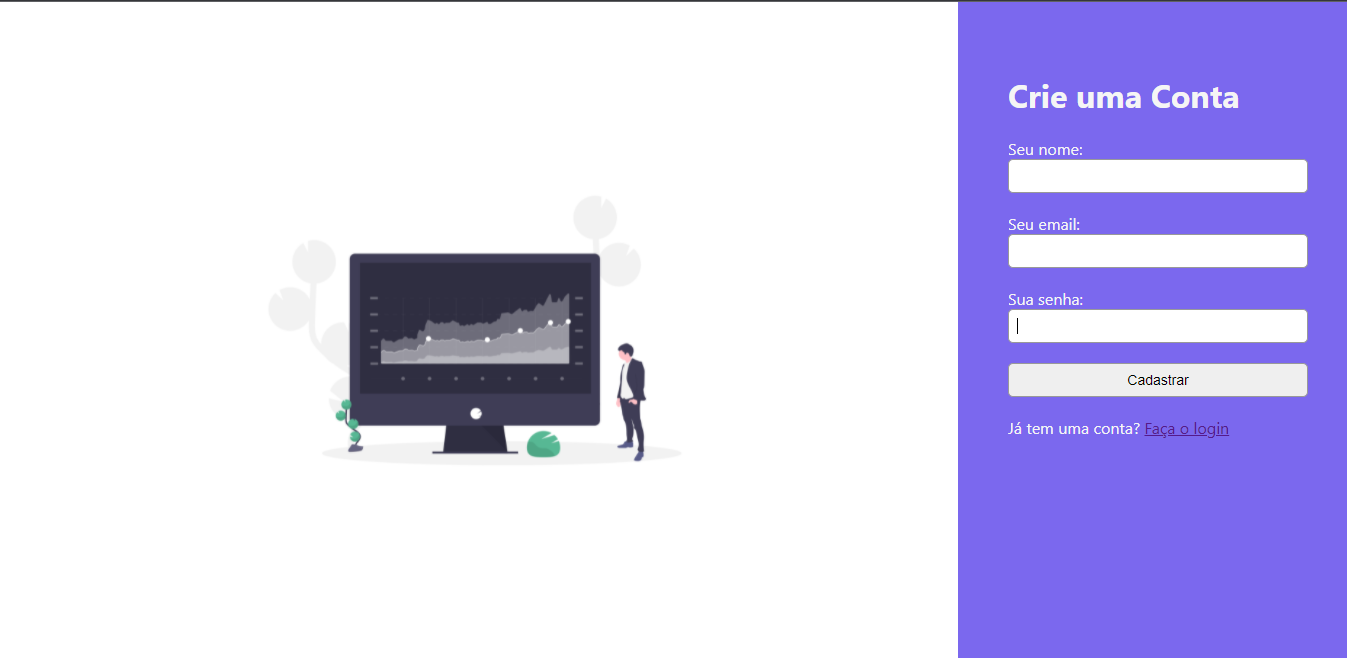
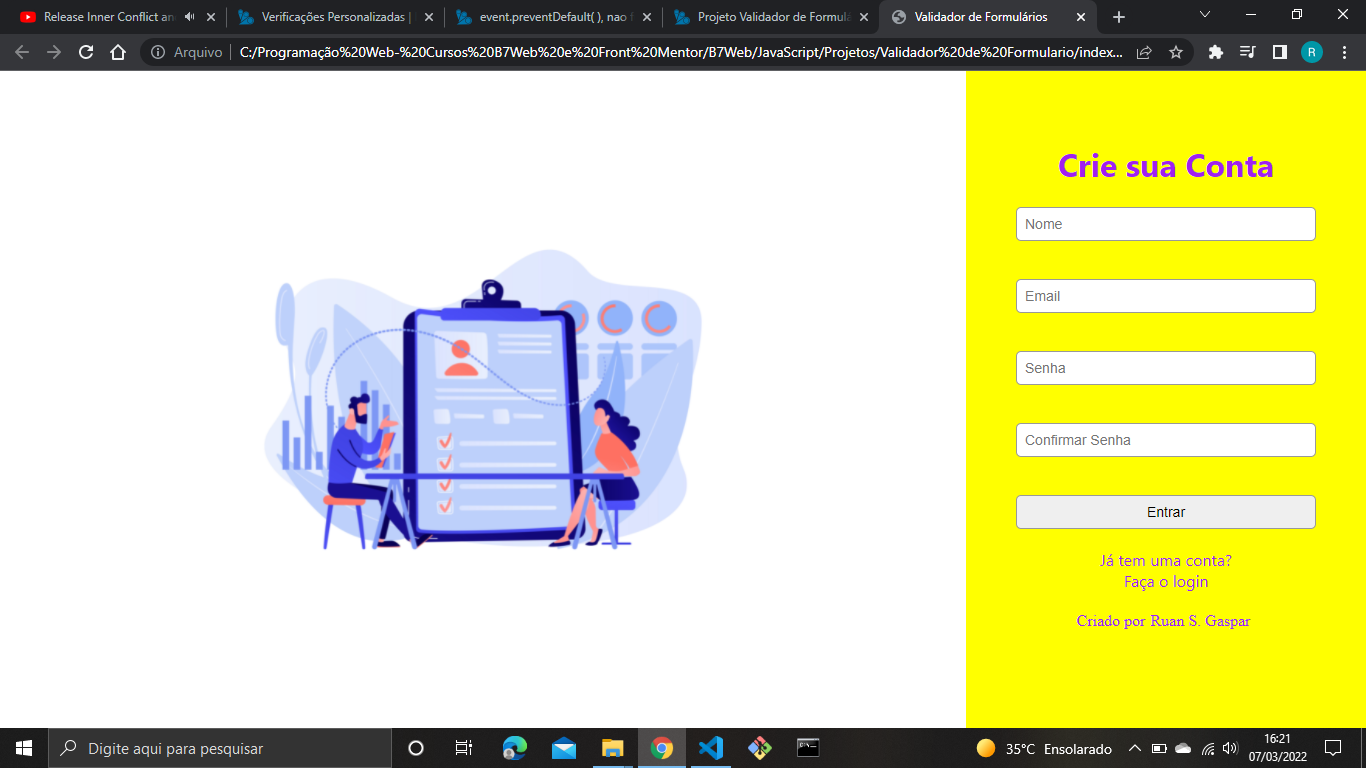
Modificação no README e no index.html

diff --git a/Validador de Formulario/index.html b/Validador de Formulario/index.html
@@ -10,31 +10,40 @@
 <body>
   <div class="screen">
       <div class="leftside">
-        <img src="assets/images/financial_data.png" alt="financial_data">
+        <img src="assets/images/form_validator.jpg" alt="form_validator">
       </div>
       <div class="rightside">
-          <h1 class="text">Login</h1>
-
-            <form method="POST" action="cadastro.php" class="rsgvalidator" >
+          <h1 class="text">Crie sua Conta</h1>
+            <form method="POST" action="cadastro.php" class="b7validator" >
                 <label>
                   <input type="text" name="name" data-rules="required|min=2" placeholder="Nome" autofocus/>
                 </label>
+                <br>
                 <label>
                   <input type="text" name="email" data-rules="required|email" placeholder="Email" autofocus/>
                 </label>
+                <br>
                 <label>
                   <input type="password" name="password" data-rules="required|min=4" placeholder="Senha" autofocus/>
                 </label>
+                <br>
+                <label>
+                  <input type="password" name="password" data-rules="required|min=4" placeholder="Confirmar Senha" autofocus/>
+                </label>
+                <br>
                 <label>
                   <input type="submit" value="Entrar"/>
                 </label>
             </form>
             <div class="text">
-              <p>Não tem uma conta? <a href="">Faça o cadastro</a></p>
+              <p>Já tem uma conta? <a href="">Faça o login</a></p>
+            </div>
+            <div class="footer">
+              Criado por<a class="linkedin" target="blank" href="https://www.linkedin.com/in/ruan-silva-gaspar-a13a89226/">Ruan S. Gaspar </a>
             </div>
       </div>
   </div>
 
-  <script src="script.js"></script>
+  <script src="assets/js/script.js"></script>
 </body>
 </html>

diff --git a/Validador de Formulario/assets/js/script.js b/Validador de Formulario/assets/js/script.js
@@ -1,18 +1,18 @@
-let RSGvalidator = {
+let B7validator = {
   handleSubmit:(event) => {
     event.preventDefault();
     let send = true;
 
     let inputs = form.querySelectorAll('input');
 
-    RSGvalidator.clearErrors();
+    B7validator.clearErrors();
 
     for(let i=0;i<inputs.length;i++) {
       let input = inputs[i];
-      let check = RSGvalidator.checkInput(input);
+      let check = B7validator.checkInput(input);
       if(check !== true) {
         send = false;
-        RSGvalidator.showError(input, check);
+        B7validator.showError(input, check);
       }
     }
 
@@ -35,13 +35,14 @@ let RSGvalidator = {
             break;
             case 'min':
               if(input.value.length < rDetails[1]){
-                  return 'Campo tem que ter pelo menos ' + rDetails[1] + ' caracteres';
+                  return 'Campo tem que ter pelo menos '+rDetails[1]+ ' caracteres';
               }
             break;
             // expressões regulares
             case 'email':
               if(input.value != '') {
                   let regex = /^(([^<>()\[\]\\.,;:\s@"]+(\.[^<>()\[\]\\.,;:\s@"]+)*)|(".+"))@((\[[0-9]{1,3}\.[0-9]{1,3}\.[0-9]{1,3}\.[0-9]{1,3}])|(([a-zA-Z\-0-9]+\.)+[a-zA-Z]{2,}))$/;
+
                   if(!regex.test(input.value.toLowerCase())) {
                     return 'E-mail inválido!';
                   }
@@ -78,5 +79,5 @@ let RSGvalidator = {
   
 };
 
-let form = document.querySelector('.rsgvalidator');
-form.addEventListener('submit', RSGvalidator.handleSubmit);
+let form = document.querySelector('.b7validator');
+form.addEventListener('submit', B7validator.handleSubmit);

diff --git a/Validador de Formulario/assets/css/style.css b/Validador de Formulario/assets/css/style.css
@@ -7,13 +7,13 @@ body {
 }
 
 .text {
-  color: whitesmoke;
+  color: #A020F0;
   font-family: -apple-system, BlinkMacSystemFont, 'Segoe UI', Roboto, Oxygen, Ubuntu, Cantarell, 'Open Sans', 'Helvetica Neue', sans-serif;
 }
 
 .text a {
   text-decoration: none;
-  color: blue;
+  color: #A020F0;
 }
 
 .screen {
@@ -35,15 +35,17 @@ body {
 
 .rightside {
   width: 400px;
-  background-color: #7B68EE;
+  background-color:#FFFF00;
   padding: 50px;
 }
 
 .rightside label {
   display: block;
   margin-bottom: 20px;
-  color: whitesmoke;
-  font-family: -apple-system, BlinkMacSystemFont, 'Segoe UI', Roboto, Oxygen, Ubuntu, Cantarell, 'Open Sans', 'Helvetica Neue', sans-serif; 
+  color: #A020F0;
+  font-family: -apple-system, BlinkMacSystemFont, 'Segoe UI', Roboto, Oxygen, Ubuntu, Cantarell, 'Open Sans', 'Helvetica Neue', sans-serif;
+  justify-content: center;
+  align-items: center;
 }
 
 .rightside input {
@@ -53,6 +55,14 @@ body {
   padding: 8px;
   font-size: 14px;
   outline: 0;
+}
+
+.footer,
+.footer a {
+  color: #A020F0;
+  padding: 5px;
+  text-align: center;
+  text-decoration: none;
 }
 
 .error {
@@ -76,6 +86,11 @@ body {
 
   .leftside img {
     display: none;
+  }
+
+  .rightside {
+    height: 100vh;
+    width: 100vh;
   }
 
   .right-side input {

diff --git a/README.md b/README.md
@@ -1,6 +1,6 @@
 ## 🚧🚧🚧 Readme Em Construção!!!
 
-# ✔📋 Validador de Formulários V. 1.1
+# ✔📋 Validador de Formulários V. 1.2
 
 <p>
   Projeto feito junto ao professor Bonieky do curso B7web, com o intuito
@@ -14,7 +14,10 @@
 
 <p>
 - Adição de placeholder nos campos "input" do formulário, que mostram ao usuário o que deve ser digitado em cada campo;<br>
-- Aplicação de Responsividade, adptando-o para diversos dispositivos;
+- Aplicação de Responsividade, adptando-o para diversos dispositivos;<br>
+- Mudança no Background do lado direito da página;<br>
+- Adição da propriedade autofocus que deixa o ponteiro ativo no canto solicitado pelo usuário;
+- Troca de Cores do lado esquerdo do site com um nova cor para o background, para o título e o rodapé do formulário<br>
 </p>
 
 <h1>🎨 Layout da Página</h1>
